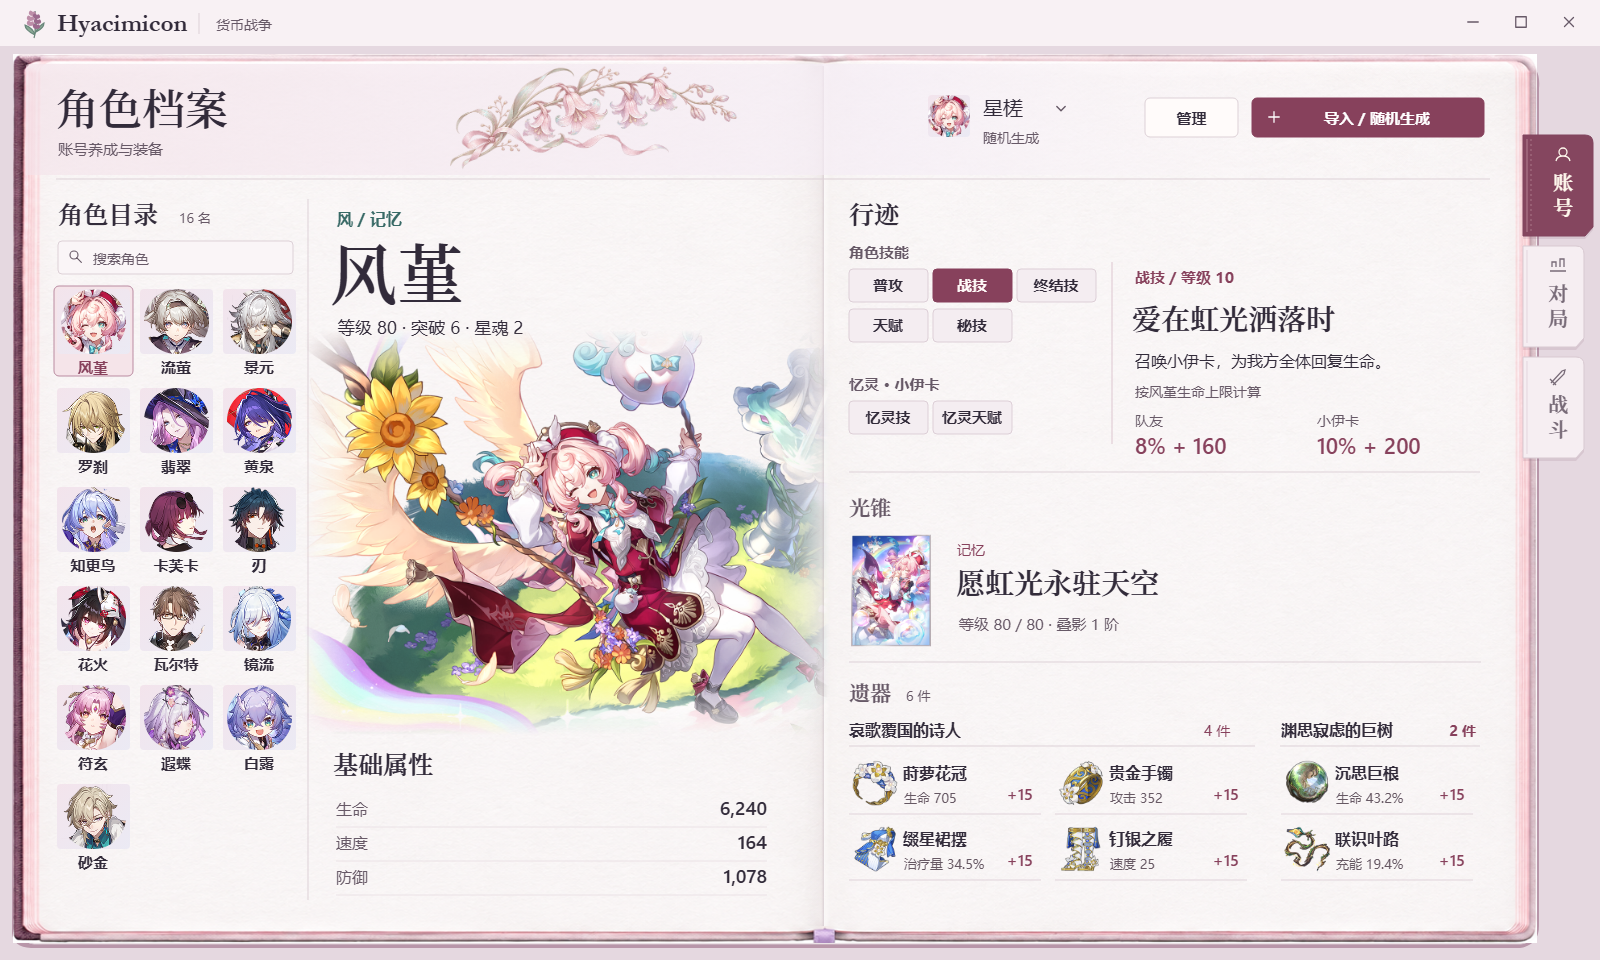
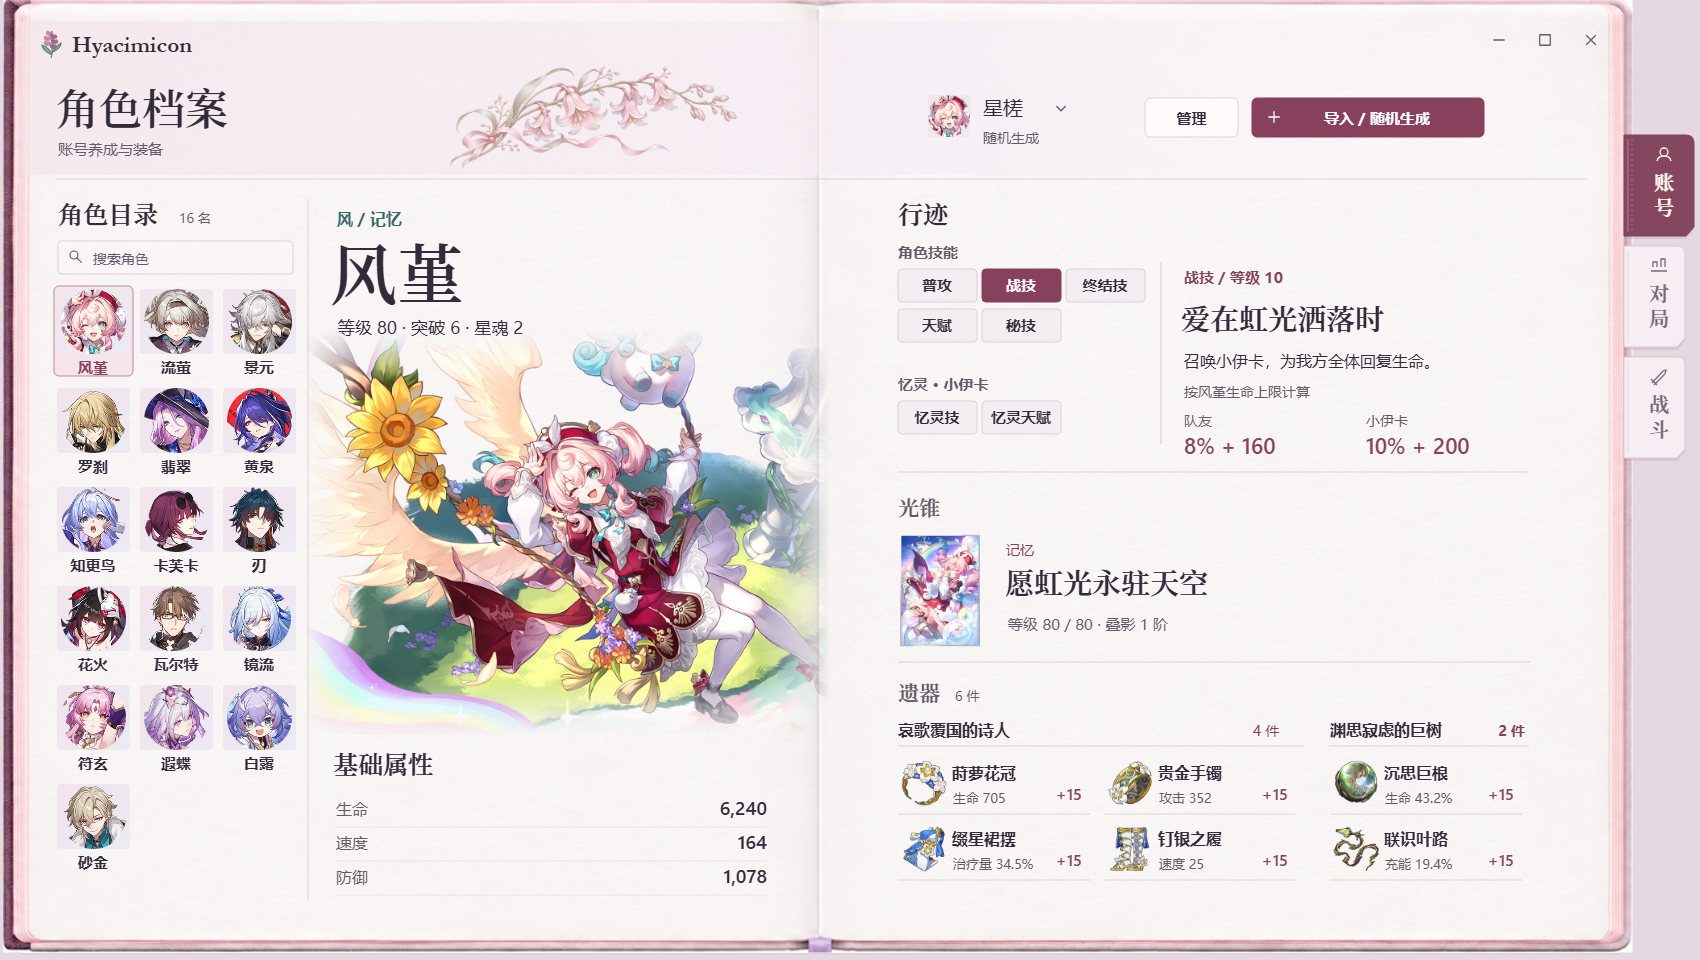
docs(player-app): widen right folio and place gear on card edges

diff --git a/design-drafts/player-app/README.md b/design-drafts/player-app/README.md
@@ -16,6 +16,8 @@
 
 [实战回填](feedback.png)是对局页的一种状态。玩家填写实际操作，核对余额、星级和席位后保存，工具再按更新后的局面评估。图中的建议、伤害和回填值均为设计样例。
 
-三页沿用低饱和的风堇配色、书脊分栏和侧边书签，彩色立绘两侧淡入纸面。窗口保留应用图标、名称及标准窗口控制。参考图尺寸为 1600 × 960。
+三页沿用低饱和的风堇配色，彩色立绘两侧淡入纸面。书册作为窗口外框，保留左页宽度，向右展开等宽的右页。模块书签伸出书页，单独占宽。应用标识与窗口控制放在书页顶缘。参考图尺寸为 1700 × 960。
+
+前台角色已穿戴的装备以小图标挂在卡片下沿。点击图标可查看对应装备，详情样式留待后续设计。
 
 前端可直接使用同目录的[原型素材](assets/README.md)。
